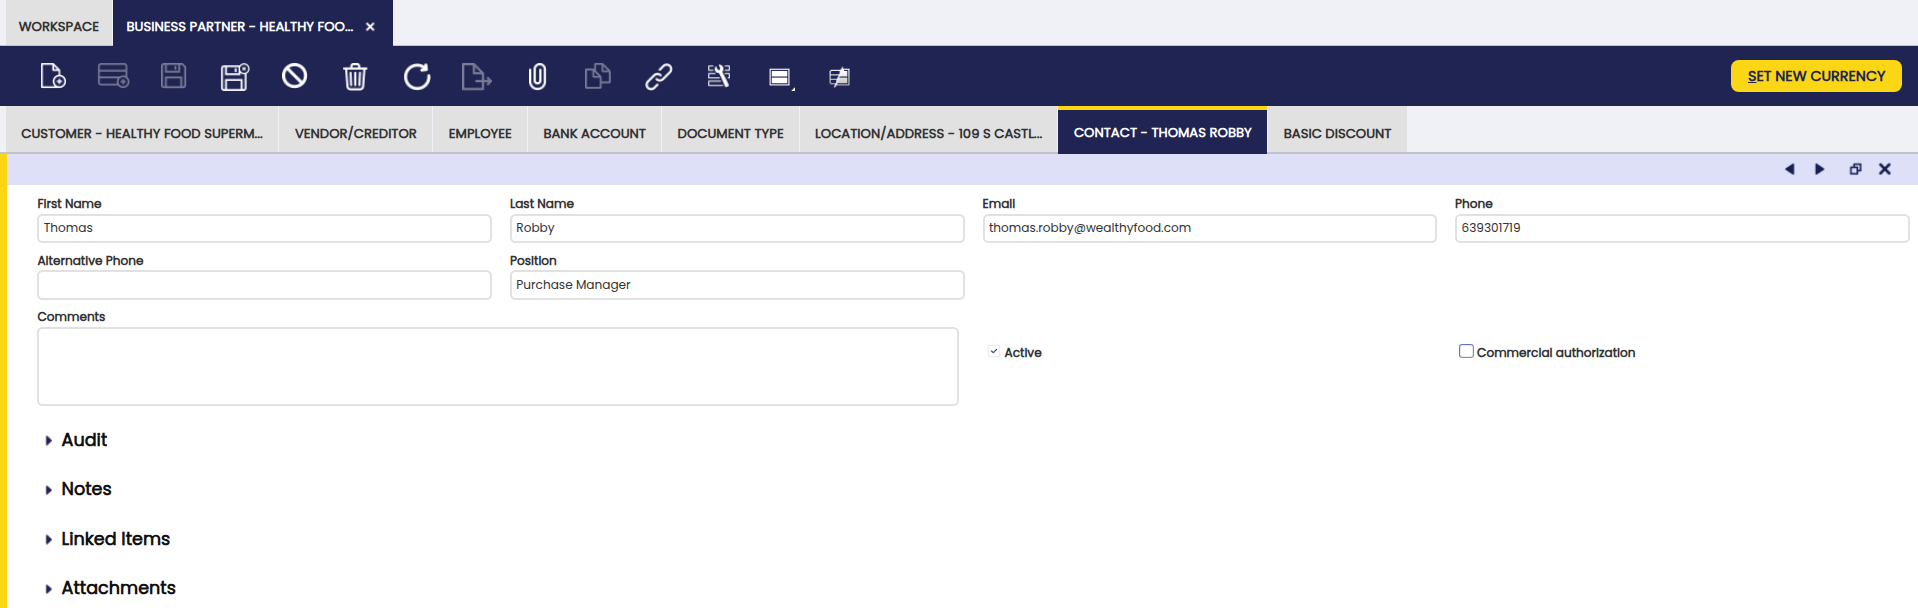
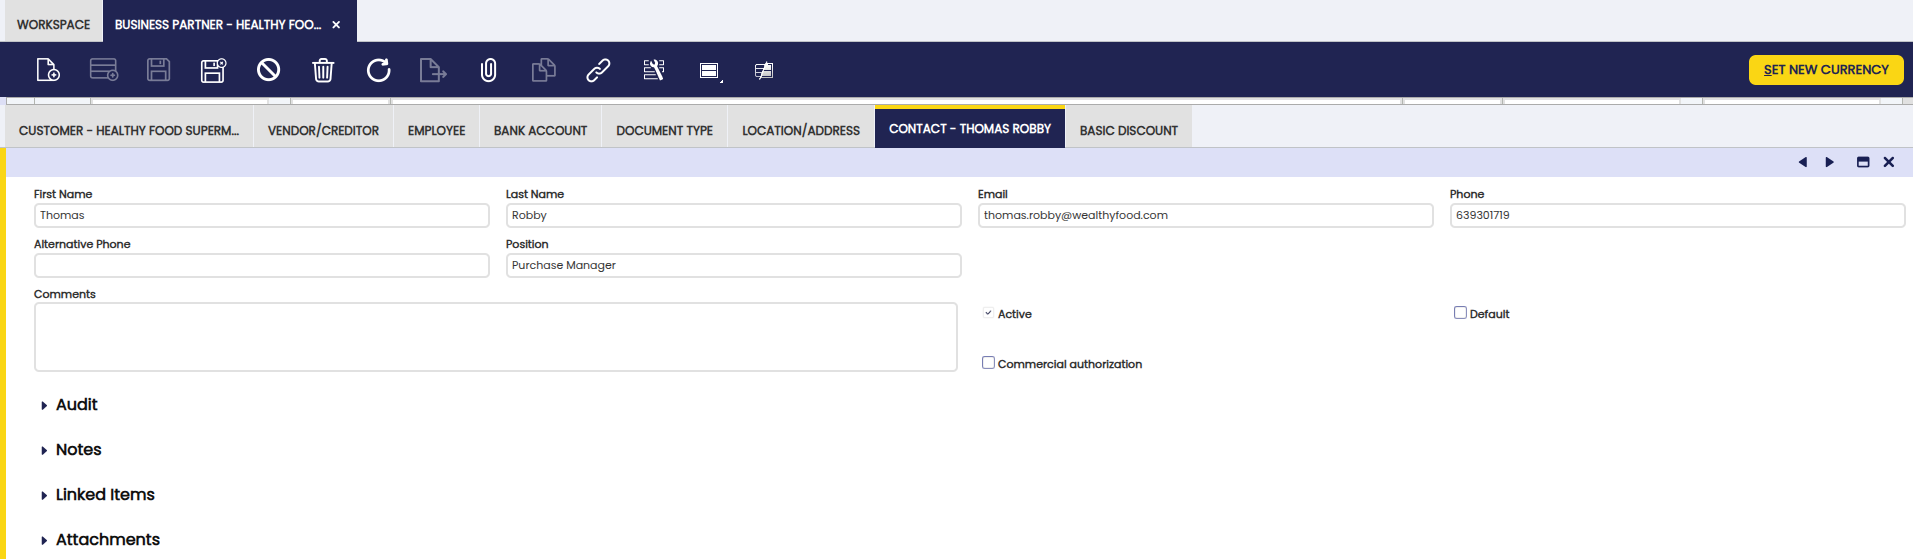
Feature ETP-3208: Add Default checkbox documentation in Contact tab

diff --git a/docs/user-guide/etendo-classic/basic-features/master-data-management/master-data.md b/docs/user-guide/etendo-classic/basic-features/master-data-management/master-data.md
@@ -537,6 +537,10 @@ Fields to note:
 - **Position** in the business partner.
 - **Active** flag: to indicate if this contact is available for use or disabled. 
 - **Commercial Authorization**: This checkbox is selected to indicate or not whether customer wants or does not want to receive commercial information from the organization.
+- **Default**: Checkbox that marks this contact as the default recipient when sending documents by email. When selected, this contact's email address is automatically preloaded in the *To* field of the Email Options popup. If no contact has this flag set, the system falls back to the last used email for the business partner or, if none exists, to the first active contact ordered alphabetically.
+
+    !!! info
+        Only one contact per Business Partner should have this checkbox selected to ensure a deterministic preselection.
 
 #### Basic Discount
 
